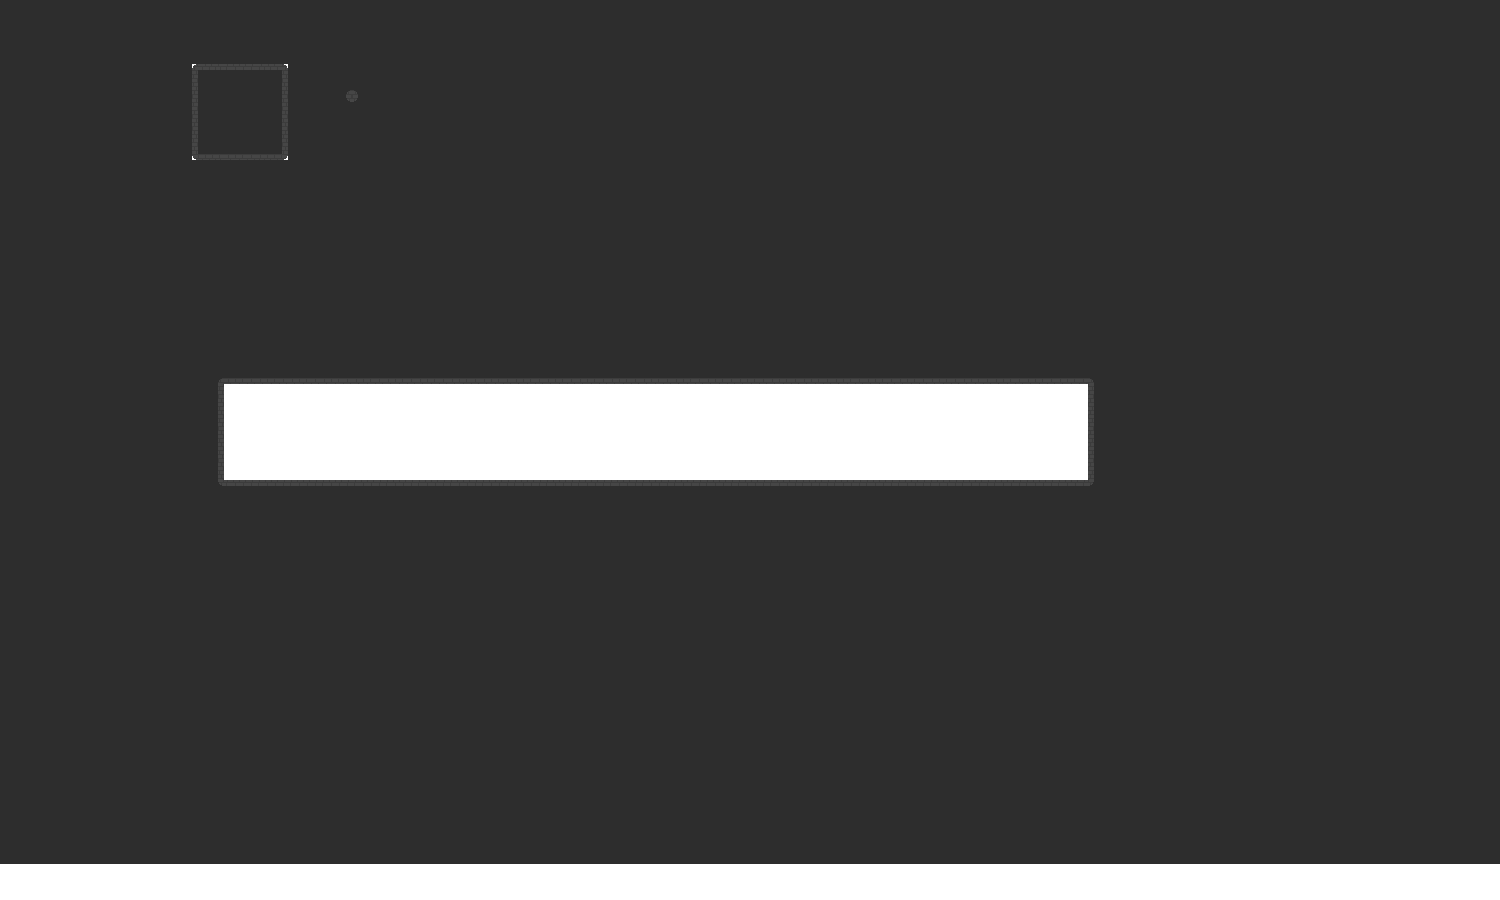
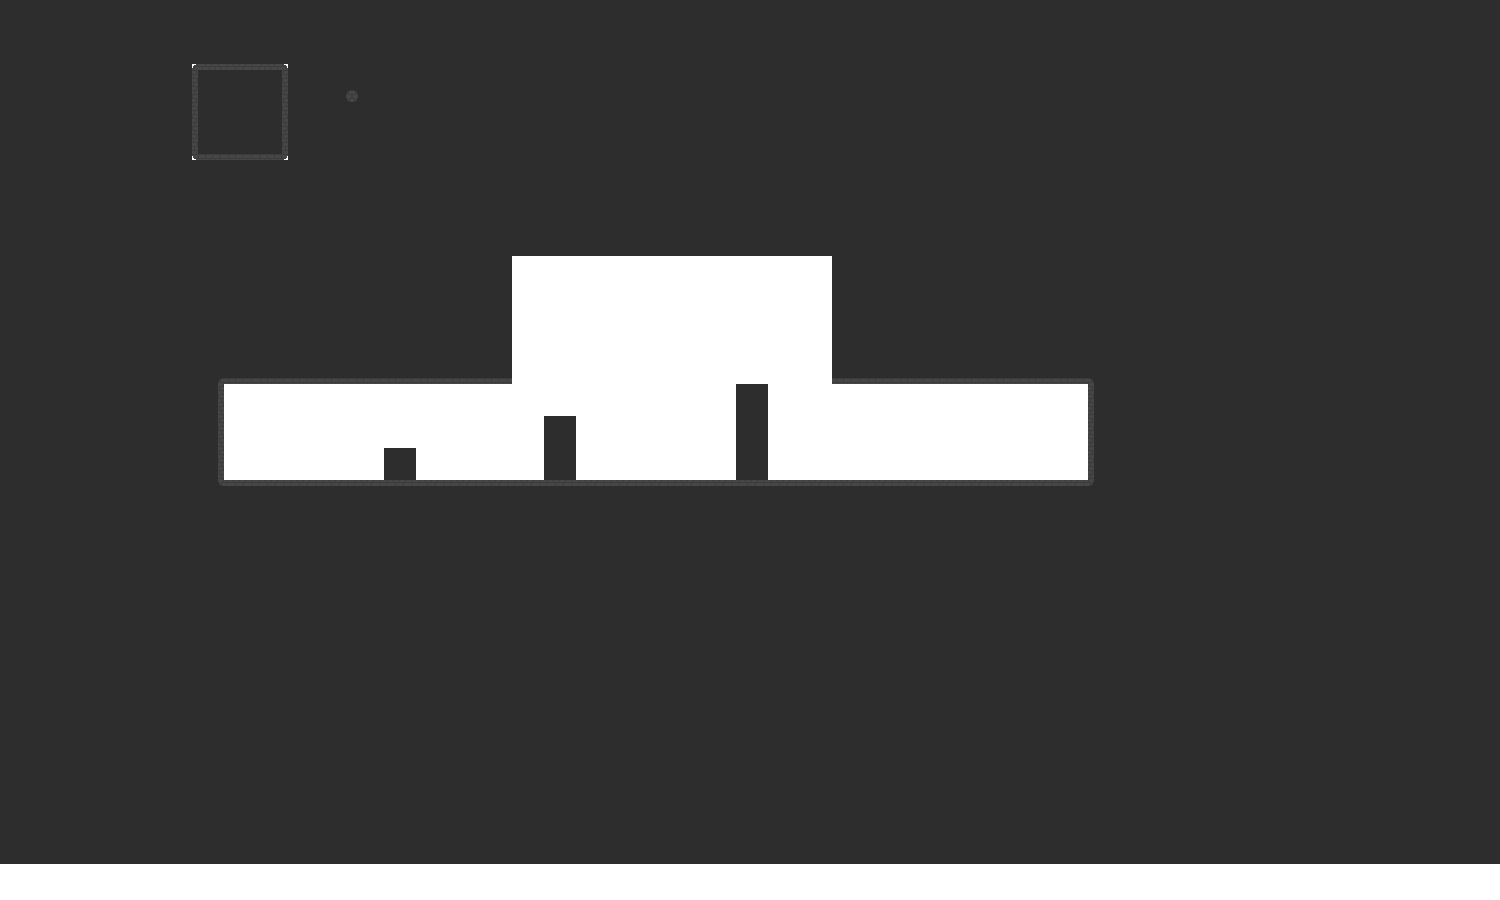
the skeleton can now jump but i broke boxes

Changed region(s): [[0.3373, 0.28, 0.552, 0.5289], [0.3373, 0.4667, 0.3987, 0.5289], [0.2453, 0.4978, 0.276, 0.5289]]

diff --git a/src/Box.java b/src/Box.java
@@ -79,10 +79,34 @@ public class Box {
         }
         return false;
     }
+
+    public boolean skeletonBelow(Skeleton skeleton) {
+        if ((skeleton.getY() + skeleton.getCollisionBox().height >= collisionBox.getY() + collisionBox.getHeight()) && (skeleton.getY() <= collisionBox.getY() + collisionBox.getHeight()) && ((skeleton.getCollisionBox().getX() < collisionBox.getX() && skeleton.getCollisionBox().getX() + skeleton.getCollisionBox().getWidth() > collisionBox.getX()) || (skeleton.getCollisionBox().getX() < collisionBox.getX() + collisionBox.getWidth() && skeleton.getCollisionBox().getX() + skeleton.getCollisionBox().getWidth() > collisionBox.getX() + collisionBox.getWidth()) || (collisionBox.getX() < skeleton.getCollisionBox().getCenterX() && collisionBox.getX() + 32 > skeleton.getCollisionBox().getCenterX()))) {
+            onCollisionBox = skeleton.getCollisionBox();
+            return true;
+        }
+        return false;
+    }
+
+    public boolean skeletonOnLeft(Skeleton skeleton, int x) {
+        if ((skeleton.getX() + skeleton.getCollisionBox().width >= x) && (skeleton.getX() <= x) && ((skeleton.getY() < collisionBox.getY() && skeleton.getY() + skeleton.getCollisionBox().height > collisionBox.getY()) || (skeleton.getY() < (collisionBox.getY() + collisionBox.getHeight()) && skeleton.getY() + skeleton.getCollisionBox().height > collisionBox.getY()  + collisionBox.getHeight()))) {
+            return true;
+        }
+        return false;
+    }
+
+    public boolean skeletonOnRight(Skeleton skeleton, int x) {
+        if ((skeleton.getCollisionBox().x + engine.getSCALE() <= x + collisionBox.getWidth()) && (skeleton.getCollisionBox().x + engine.getSCALE() + skeleton.getCollisionBox().width >= x + collisionBox.getWidth()) && ((skeleton.getY() < collisionBox.getY() && skeleton.getY() + skeleton.getCollisionBox().height > collisionBox.getY()) || (skeleton.getY() < collisionBox.getY() + collisionBox.getHeight() && skeleton.getY() + skeleton.getCollisionBox().height > collisionBox.getY()  + collisionBox.getHeight()))) {
+            return true;
+        }
+        return false;
+    }
     public void checkChangeX(int change) {
         if (change > 0) {
             if (!wallOnRight(engine.getLevelLayout().getWalls(), x + change) && !playerOnRight(engine.getLevelLayout().getAvailableCharacters(), x + change)) {
-                x += change;
+                if (engine.getNecromancer() != null || !skeletonOnRight(engine.getNecromancer().getSummon(), x + change)) {
+                    x += change;
+                }
             }
         }
         if (change < 0) {
@@ -92,7 +116,7 @@ public class Box {
         }
     }
     public void update() {
-        if (!touchingPlatform(engine.getLevelLayout().getWalls()) && !playerBelow(engine.getLevelLayout().getAvailableCharacters())) {
+        if (!touchingPlatform(engine.getLevelLayout().getWalls()) && !playerBelow(engine.getLevelLayout().getAvailableCharacters()) && !skeletonBelow(engine.getNecromancer().getSummon())) {
             y += velocity;
             inAir = true;
             velocityTimer++;

diff --git a/src/Necromancer.java b/src/Necromancer.java
@@ -1,4 +1,5 @@
 import java.awt.*;
+import java.awt.event.KeyEvent;
 
 public class Necromancer extends Player {
 
@@ -10,13 +11,13 @@ public class Necromancer extends Player {
     public void doAbility() {
         if (super.isFacingRight()) {
             try {
-                summon = new Skeleton(super.getEngine(), (int) (super.getCollisionBox().getX() + super.getCollisionBox().getWidth() + 1), super.getY(), super.isRight(), super.isLeft(), super.isUp());
+                summon = new Skeleton(super.getEngine(), (int) (super.getCollisionBox().getX() + super.getCollisionBox().getWidth() + 4), super.getY(), super.isRight(), super.isLeft(), super.isUp());
 
             } catch (InWallException e) {}
         }
         else {
             try {
-                summon = new Skeleton(super.getEngine(), (int) (super.getCollisionBox().getX() - super.getCollisionBox().getWidth() - 3), super.getY(), super.isRight(), super.isLeft(), super.isUp());
+                summon = new Skeleton(super.getEngine(), (int) (super.getCollisionBox().getX() - super.getCollisionBox().getWidth() - 6), super.getY(), super.isRight(), super.isLeft(), super.isUp());
             } catch (InWallException e) {}
         }
     }
@@ -32,5 +33,16 @@ public class Necromancer extends Player {
         if (summon != null) {
             summon.draw(g);
         }
+    }
+
+    public void keyPressed(KeyEvent e) {
+        super.keyPressed(e);
+        if (e.getKeyCode() == KeyEvent.VK_R) {
+            summon = null;
+        }
+    }
+
+    public Skeleton getSummon() {
+        return summon;
     }
 }

diff --git a/src/Skeleton.java b/src/Skeleton.java
@@ -3,6 +3,7 @@ import java.awt.event.KeyEvent;
 
 public class Skeleton extends Player {
 
+    private boolean jumping;
     public Skeleton(Engine engine, int x, int y, boolean isRight, boolean isLeft, boolean isJump) throws InWallException {
         super(engine, x, y);
         if (inAnything()) {
@@ -10,7 +11,7 @@ public class Skeleton extends Player {
         }
         super.setRight(isRight);
         super.setLeft(isLeft);
-        super.setUp(isJump);
+        jumping = isJump;
         if (isRight) {
             super.setFacingLeft(false);
             super.setFacingRight(true);
@@ -18,6 +19,19 @@ public class Skeleton extends Player {
         else if (isLeft) {
             super.setFacingRight(false);
             super.setFacingLeft(true);
+        }
+
+    }
+
+    @Override
+    public void update() {
+        super.update();
+        if (jumping && !super.isInAir()) {
+            super.setFrameNumber(0);
+            super.setUp(true);
+            super.setJumpAnimation(true);
+            super.setVelocity(-3);
+            super.setVelocityTimer(0);
         }
     }
 

diff --git a/src/Player.java b/src/Player.java
@@ -376,6 +376,29 @@ public class Player implements KeyListener{
     }
 
 
+    public int getVelocity() {
+        return velocity;
+    }
+
+    public void setVelocity(int velocity) {
+        this.velocity = velocity;
+    }
+
+    public int getVelocityTimer() {
+        return velocityTimer;
+    }
+
+    public void setVelocityTimer(int velocityTimer) {
+        this.velocityTimer = velocityTimer;
+    }
+
+    public void setOnCollisionBox(Rectangle onCollisionBox) {
+        this.onCollisionBox = onCollisionBox;
+    }
+
+    public Rectangle getOnCollisionBox() {
+        return onCollisionBox;
+    }
 
     public boolean isActive() {
         return active;
@@ -576,7 +599,6 @@ public class Player implements KeyListener{
                 case KeyEvent.VK_UP:
                     if (!up && !inAir) {
                         frameNumber = 0;
-                        System.out.println(y);
                         up = true;
                         jumpAnimation = true;
                         velocity = -3;
